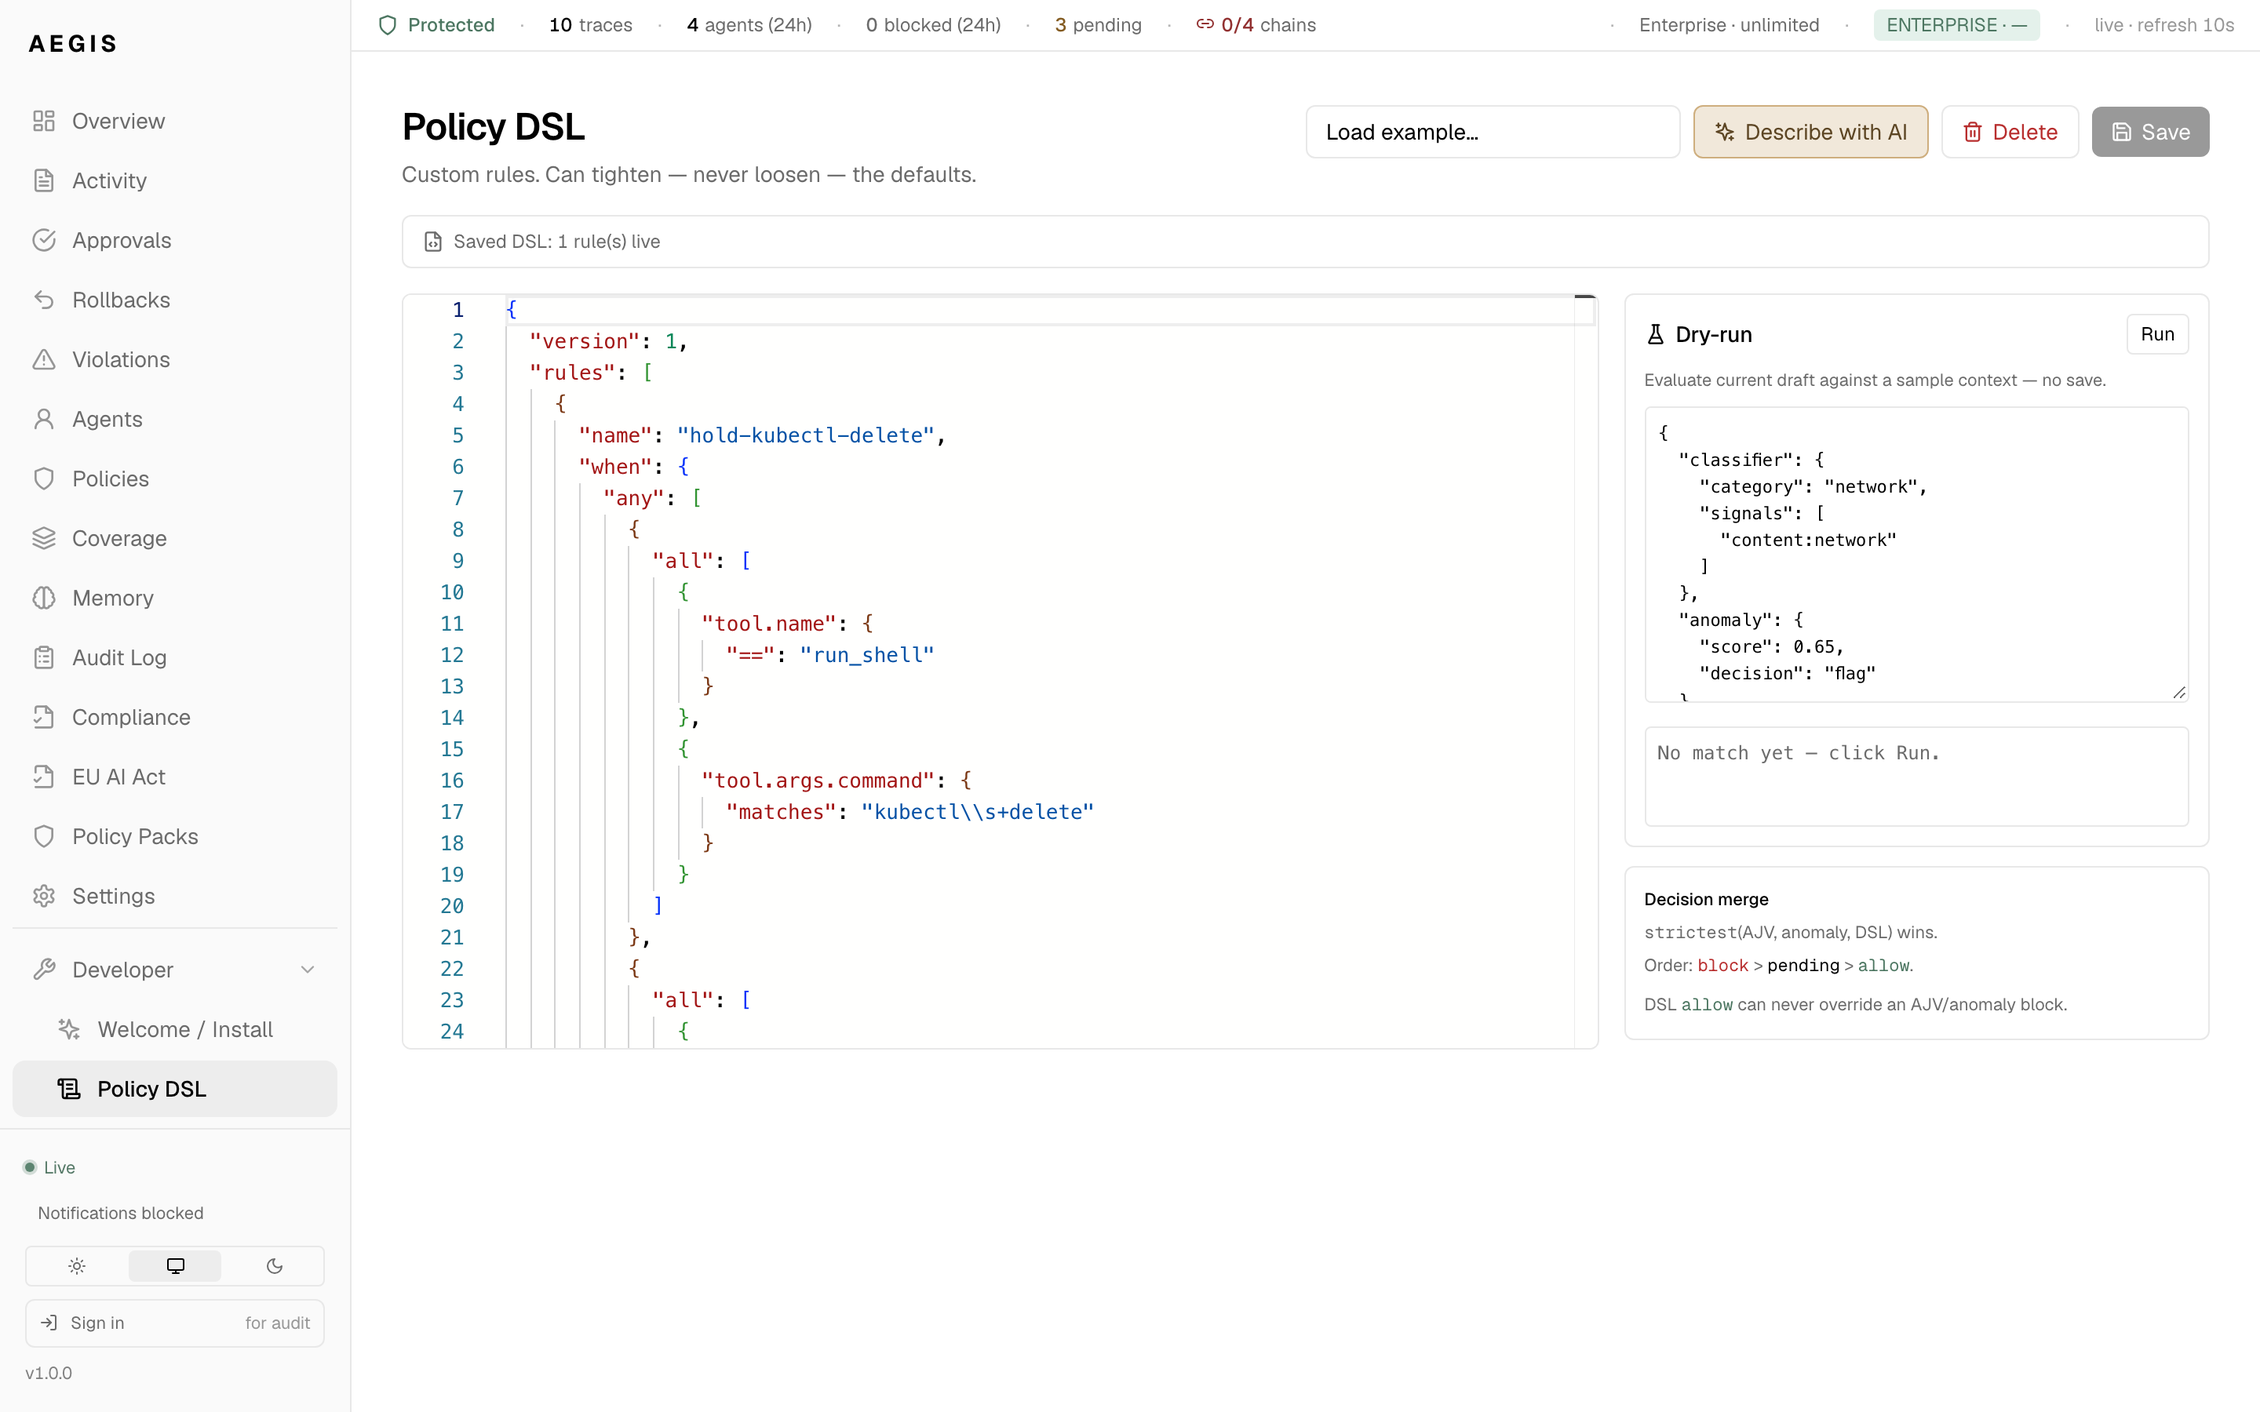
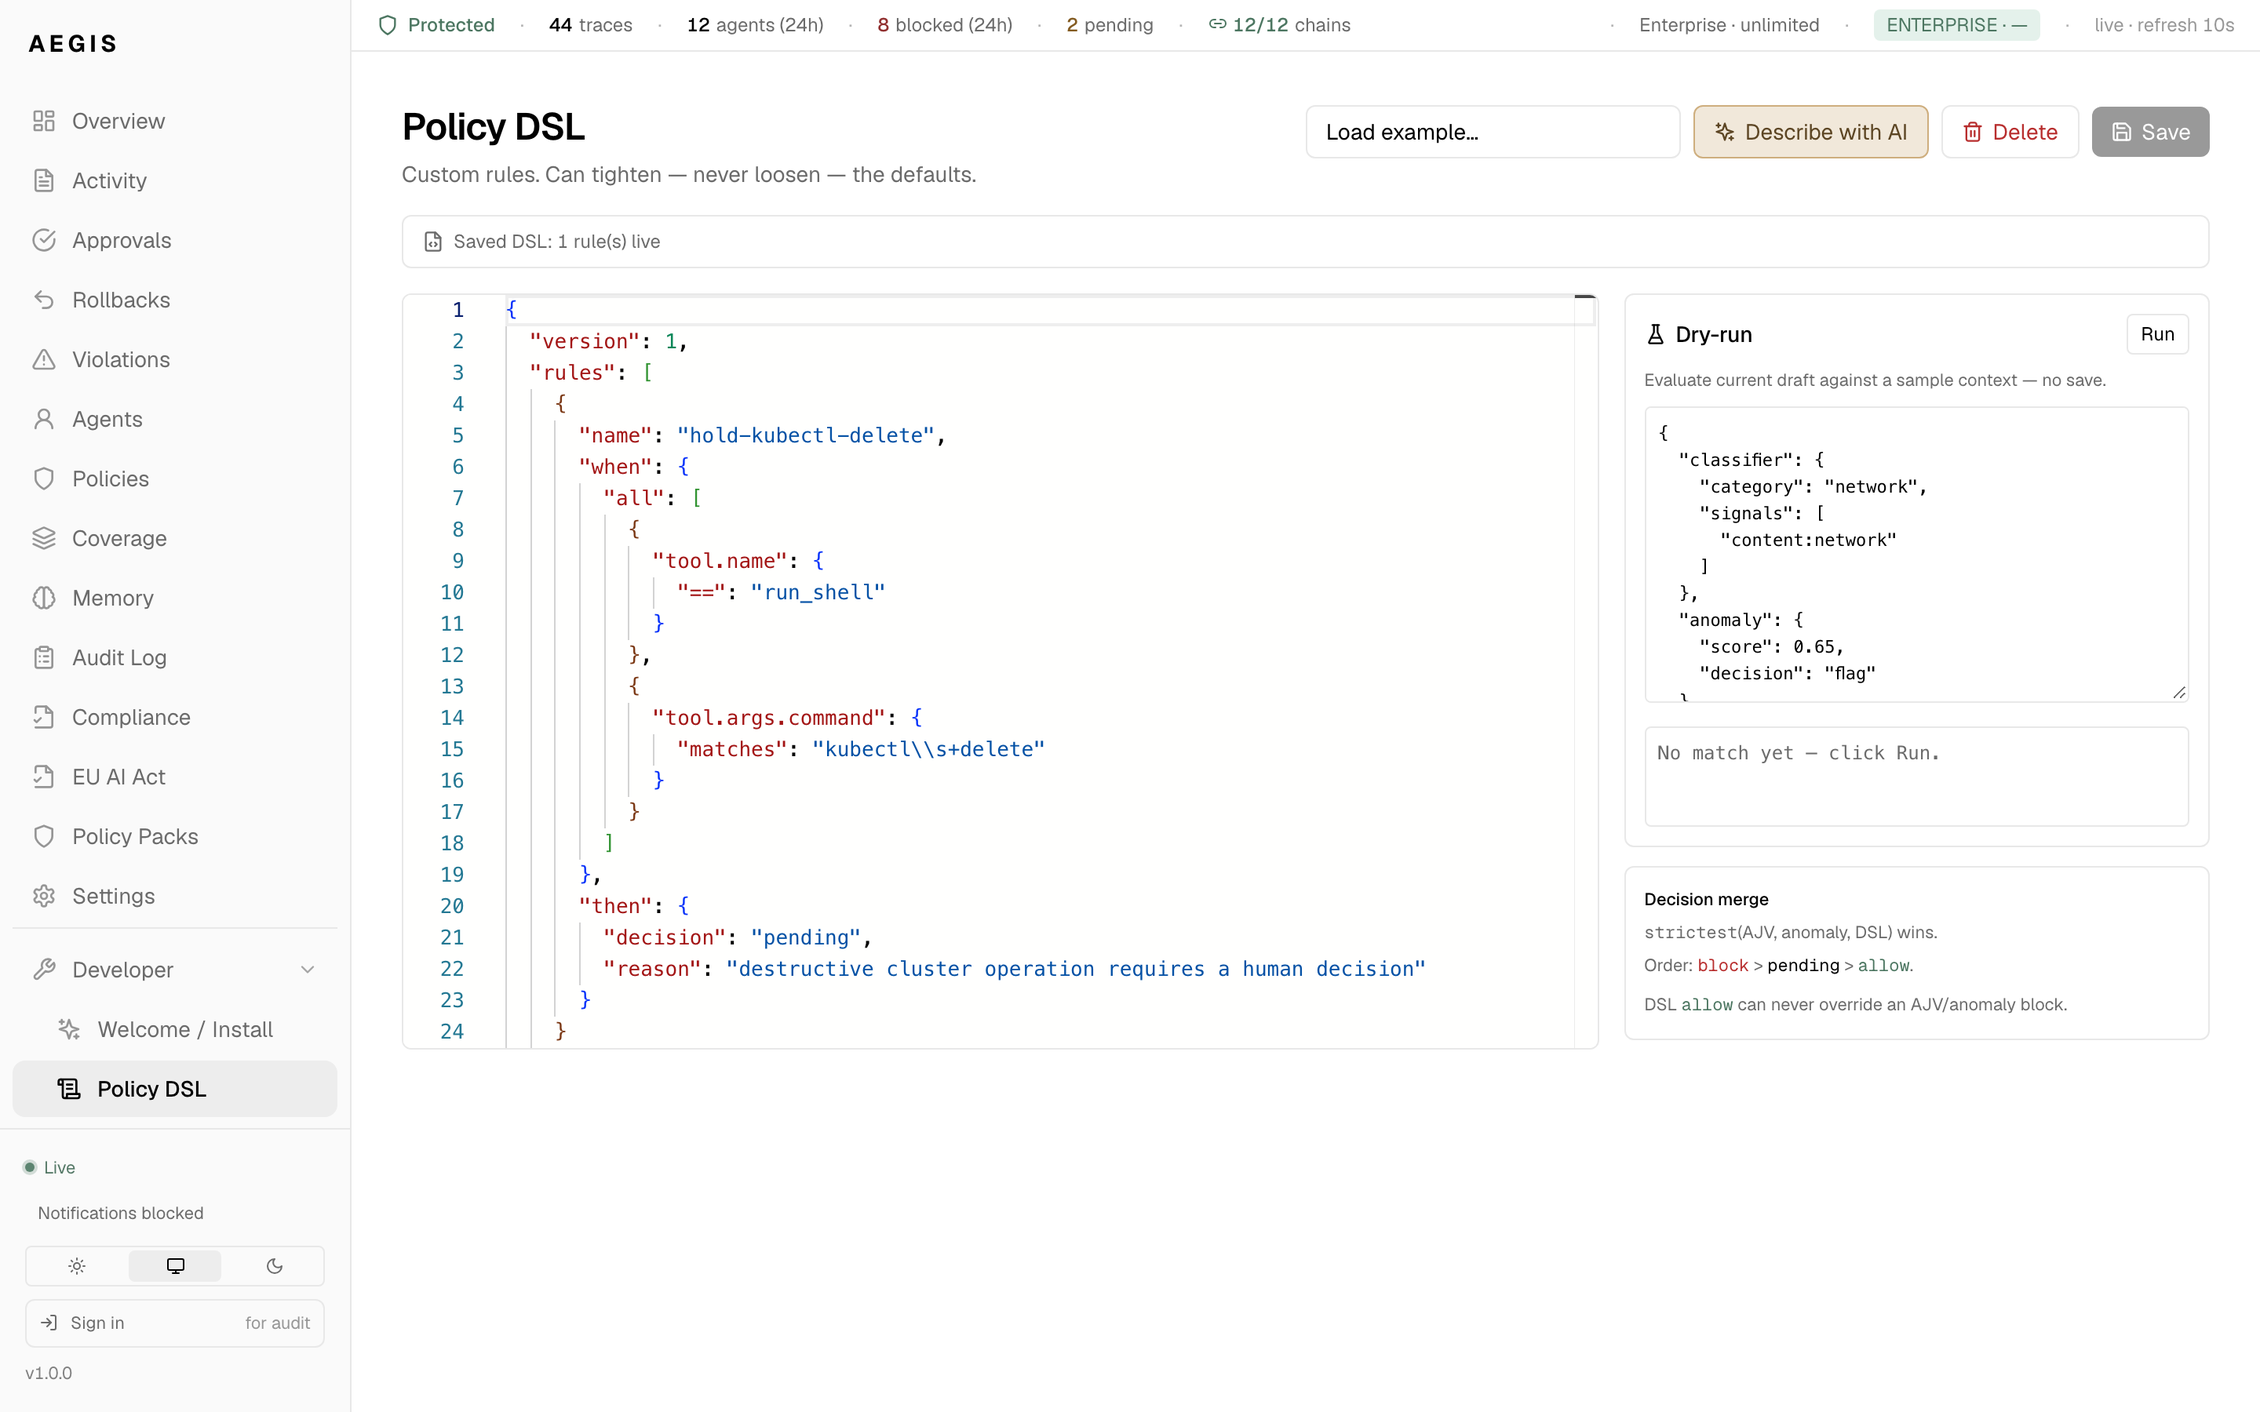
SDKs: write the gateway's decision into the trace; JS gets enforceAt and the guarded helper
The paper says every decision becomes a trace, but a call the Python SDK
blocked never carried the verdict: the trace (when one was written at all)
had no safety_validation or approval_status, so the Cockpit's activity
chart counted 1 blocked while the violations table counted 8. The SDK now
keeps the gateway's decision per (tool, arguments) and attaches it when
the trace leaves — REJECTED with the reason for a block, PENDING_APPROVAL
resolved to APPROVED/REJECTED for a hold, AUTO_APPROVED for an allow.

The JS SDK gains enforceAt: 'tool' and check/guarded/refusal, mirroring
Python, so a plain JS loop returns the refusal in-band with one line; the
matrix's JS row now reads in-band (helper). Cockpit screenshots retaken
against the gateway that ran the matrix: 12/12 chains, blocked and
pending counts real.

diff --git a/packages/sdk-js/src/interceptors/auto.ts b/packages/sdk-js/src/interceptors/auto.ts
@@ -76,7 +76,7 @@ export class AutoInstrument {
             const toolName = block.name as string;
             const args = (block.input ?? {}) as Record<string, unknown>;
 
-            if (instrument.guard.config.blockingMode) {
+            if (instrument.guard.config.blockingMode && instrument.guard.config.enforceAt !== 'tool') {
               await instrument.guard.enforceBlock(toolName, args);
             }
 
@@ -136,7 +136,7 @@ export class AutoInstrument {
             let args: Record<string, unknown> = {};
             try { args = JSON.parse((fn.arguments as string) || '{}'); } catch { /* */ }
 
-            if (instrument.guard.config.blockingMode) {
+            if (instrument.guard.config.blockingMode && instrument.guard.config.enforceAt !== 'tool') {
               await instrument.guard.enforceBlock(toolName, args);
             }
 
@@ -182,7 +182,7 @@ export class AutoInstrument {
         const prompt = typeof input === 'string' ? input : JSON.stringify(input);
         const startTime = Date.now();
 
-        if (instrument.guard.config.blockingMode) {
+        if (instrument.guard.config.blockingMode && instrument.guard.config.enforceAt !== 'tool') {
           await instrument.guard.enforceBlock(toolName, args);
         }
 
@@ -225,7 +225,7 @@ export class AutoInstrument {
         wrapped.execute = async function (args: Record<string, unknown>, options?: unknown) {
           const startTime = Date.now();
 
-          if (instrument.guard.config.blockingMode) {
+          if (instrument.guard.config.blockingMode && instrument.guard.config.enforceAt !== 'tool') {
             await instrument.guard.enforceBlock(toolName, args);
           }
 
@@ -311,3 +311,40 @@ export function auto(
 }
 
 export { AgentGuardBlockedError };
+
+// ── Explicit check for stacks without a tool-execution hook ─────────────────
+// A hand-written loop executes tools in its own code, so there is no method
+// for auto() to patch at the tool. One line puts the decision there:
+//
+//     agentguard.auto(url, { agentId: 'ops', blockingMode: true, enforceAt: 'tool' });
+//     execute = agentguard.guarded(execute);   // (toolName, args) => result
+//
+// A blocked call then resolves to the refusal text as the tool's own result.
+const REFUSAL_PREFIX = '[AEGIS] Tool call blocked before execution: ';
+
+/** Decide one tool call before it runs; resolves on allow (after any human hold), throws AgentGuardBlockedError otherwise. */
+export async function check(toolName: string, args: Record<string, unknown>): Promise<void> {
+  if (!_defaultGuard) throw new Error('agentguard.check() needs agentguard.auto(...) to have run first');
+  if (!_defaultGuard.config.blockingMode) return;
+  await _defaultGuard.enforceBlock(toolName, args ?? {});
+}
+
+/** The in-band refusal text for a blocked call. */
+export function refusal(err: AgentGuardBlockedError): string {
+  return `${REFUSAL_PREFIX}${err.reason}`;
+}
+
+/** Wrap an agent's tool dispatcher `(toolName, args, ...rest) => result` so a blocked call returns the refusal instead of throwing. */
+export function guarded<TArgs extends unknown[], TReturn>(
+  dispatch: (toolName: string, args: Record<string, unknown>, ...rest: TArgs) => TReturn | Promise<TReturn>,
+): (toolName: string, args: Record<string, unknown>, ...rest: TArgs) => Promise<TReturn | string> {
+  return async (toolName, args, ...rest) => {
+    try {
+      await check(toolName, args);
+    } catch (err) {
+      if (err instanceof AgentGuardBlockedError) return refusal(err);
+      throw err;
+    }
+    return dispatch(toolName, args, ...rest);
+  };
+}

diff --git a/packages/sdk-js/src/core/types.ts b/packages/sdk-js/src/core/types.ts
@@ -19,6 +19,14 @@ export interface AgentGuardConfig {
    * Default: false
    */
   blockingMode?: boolean;
+  /**
+   * Where a blocking decision is enforced. 'response' (default): the
+   * auto-instrumentation throws AgentGuardBlockedError out of the model
+   * call before any tool is dispatched. 'tool': the model-level patch only
+   * observes, and the agent's own dispatcher — wrapped with guarded() —
+   * decides, returning the refusal as the tool's result (in-band).
+   */
+  enforceAt?: 'response' | 'tool';
   /** Timeout for blocking checks in ms (default: 3000) */
   blockingTimeoutMs?: number;
   /** How long a `pending` call waits for a human decision before it is treated as blocked (default: 300000). */

diff --git a/packages/sdk-js/src/index.ts b/packages/sdk-js/src/index.ts
@@ -24,7 +24,7 @@ export type {
   Environment,
   ApprovalStatus,
 } from './core/types.js';
-export { auto, AutoInstrument } from './interceptors/auto.js';
+export { auto, AutoInstrument, check, guarded, refusal } from './interceptors/auto.js';
 
 /**
  * CodeShield helper — scan agent-generated code before dispatch, get

diff --git a/packages/sdk-js/src/core/tracer.ts b/packages/sdk-js/src/core/tracer.ts
@@ -44,6 +44,7 @@ export class AgentGuard {
       humanApprovalTimeoutMs: 300_000,
       pollIntervalMs: 1_000,
       failOpen: true,
+      enforceAt: 'response',
       debug: false,
       // Identity headers default to empty strings; HttpTransport's
       // env-fallback logic in buildHeaders() picks them up from

diff --git a/packages/sdk-python/agentguard/interceptors/auto.py b/packages/sdk-python/agentguard/interceptors/auto.py
@@ -178,6 +178,11 @@ class AutoInstrument:
     def __init__(self, guard: "AgentGuard"):
         self._guard = guard
         self._pending: Dict[str, Dict[str, Any]] = {}  # tool_use_id → partial data
+        # Gateway decisions keyed by (tool, args), consumed by _send_trace so
+        # every decision — allow, block, hold and its resolution — is written
+        # into the trace's safety_validation / approval_status, not only into
+        # the gateway's violations table. "Every decision becomes a trace."
+        self._decisions: Dict[str, Dict[str, Any]] = {}
 
     # ── Shared payload builder ──────────────────────────────────────────────
 
@@ -242,6 +247,40 @@ class AutoInstrument:
             return check_id, risk_level, category
         return None
 
+    @staticmethod
+    def _decision_key(tool_name: str, arguments: Any) -> str:
+        try:
+            return f"{tool_name}|{_json_mod.dumps(arguments, sort_keys=True, default=str)}"
+        except Exception:
+            return f"{tool_name}|{arguments!r}"
+
+    def _note_decision(self, tool_name: str, arguments: Any, result: dict) -> None:
+        decision = result.get("decision", "allow")
+        self._decisions[self._decision_key(tool_name, arguments)] = {
+            "passed":     decision != "block",
+            "risk_level": result.get("risk_level", "LOW"),
+            "approval":   {"allow": "AUTO_APPROVED", "pending": "PENDING_APPROVAL"}.get(decision, "REJECTED"),
+            "reason":     result.get("reason") if decision == "block" else None,
+            "check_id":   result.get("check_id"),
+        }
+
+    def _resolve_hold(self, tool_name: str, approved: bool, reason: Optional[str]) -> None:
+        for key, d in self._decisions.items():
+            if key.startswith(tool_name + "|") and d.get("approval") == "PENDING_APPROVAL":
+                d["approval"] = "APPROVED" if approved else "REJECTED"
+                d["passed"] = approved
+                d["reason"] = None if approved else reason
+
+    def _pop_decision(self, tool_name: str, arguments: Any):
+        d = self._decisions.pop(self._decision_key(tool_name, arguments), None)
+        if not d:
+            return None, None
+        from agentguard_core_schema import SafetyValidation
+        sv = SafetyValidation(policy_name="gateway", passed=bool(d["passed"]),
+                              violations=[d["reason"]] if d.get("reason") else None,
+                              risk_level=d.get("risk_level") if d.get("risk_level") in ("LOW", "MEDIUM", "HIGH", "CRITICAL") else "LOW")
+        return sv, d.get("approval")
+
     # ── Shared pre-check helpers ────────────────────────────────────────────
 
     _SEV = {"LOW": 0, "MEDIUM": 1, "HIGH": 2, "CRITICAL": 3}
@@ -295,6 +334,7 @@ class AutoInstrument:
             )
             with urllib.request.urlopen(req, timeout=timeout_s) as resp:
                 result = _json_mod.loads(resp.read())
+            self._note_decision(tool_name, arguments, result)
 
             risk_level = result.get("risk_level", "LOW")
             category   = result.get("category", "unknown")
@@ -356,8 +396,10 @@ class AutoInstrument:
 
                 if decision == "allow":
                     print(f"[AEGIS] ✅ '{tool_name}' approved by {result.get('decided_by', 'human')}")
+                    self._resolve_hold(tool_name, True, None)
                     return
                 if decision == "block":
+                    self._resolve_hold(tool_name, False, "Rejected by human reviewer")
                     raise AgentGuardBlockedError(
                         tool_name=tool_name,
                         reason="Rejected by human reviewer",
@@ -369,6 +411,7 @@ class AutoInstrument:
             except Exception:
                 pass  # network blip — keep polling
 
+        self._resolve_hold(tool_name, False, f"Human approval timed out after {timeout_s}s")
         raise AgentGuardBlockedError(
             tool_name=tool_name,
             reason=f"Human approval timed out after {timeout_s}s",
@@ -408,6 +451,7 @@ class AutoInstrument:
                     return _json_mod.loads(resp.read())
 
             result = await loop.run_in_executor(None, _do_check)
+            self._note_decision(tool_name, arguments, result)
 
             risk_level = result.get("risk_level", "LOW")
             category   = result.get("category", "unknown")
@@ -469,8 +513,10 @@ class AutoInstrument:
 
                 if decision == "allow":
                     print(f"[AEGIS] ✅ '{tool_name}' approved by {result.get('decided_by', 'human')}")
+                    self._resolve_hold(tool_name, True, None)
                     return
                 if decision == "block":
+                    self._resolve_hold(tool_name, False, "Rejected by human reviewer")
                     raise AgentGuardBlockedError(
                         tool_name=tool_name,
                         reason="Rejected by human reviewer",
@@ -482,6 +528,7 @@ class AutoInstrument:
             except Exception:
                 pass
 
+        self._resolve_hold(tool_name, False, f"Human approval timed out after {timeout_s}s")
         raise AgentGuardBlockedError(
             tool_name=tool_name,
             reason=f"Human approval timed out after {timeout_s}s",
@@ -1988,9 +2035,12 @@ class AutoInstrument:
             if token_usage:
                 obs_metadata["token_usage"] = token_usage
 
+            safety_validation, approval_status = self._pop_decision(tool_name, arguments)
             trace_request = CreateTraceRequest(
                 agent_id=agent_id,
                 sequence_number=self._guard._sequence_counter,
+                safety_validation=safety_validation,
+                approval_status=approval_status,
                 input_context=InputContext(prompt=input_prompt),
                 thought_chain=ThoughtChain(
                     raw_tokens="Auto-captured via SDK interceptor",

diff --git a/research/paper-arxiv/aegis.tex b/research/paper-arxiv/aegis.tex
@@ -235,9 +235,10 @@ OpenAI Agents SDK) returns the refusal as the tool's result, so the model
 sees it in the slot a result would occupy. A stack with no such method
 to patch---a hand-written loop, LiteLLM, the Google GenAI client---gets
 the same behaviour from one line that wraps its dispatcher,
-\texttt{agentguard.guarded(execute\_tool)}. JavaScript and Go SDKs
-provide the same response-side hook; the JavaScript SDK patches
-Anthropic, OpenAI and LangChain.
+\texttt{agentguard.guarded(execute\_tool)}. The JavaScript SDK patches
+Anthropic, OpenAI and LangChain and ships the same \texttt{enforceAt}
+switch and \texttt{guarded} helper; the Go SDK is an explicit
+\texttt{Wrap(tool, args, fn)} that checks, holds, runs and traces.
 
 \paragraph{MCP proxy.}
 For agents that reach tools over the Model Context Protocol, a stdio or
@@ -481,7 +482,12 @@ Supply chain        & 8 & \makecell[tl]{Source-map leak (3), unsafe\\publish (3)
 
 Agents carry an identity card---an EdDSA-signed JWT minted by the gateway
 and bound to the agent's registry status---which the proxy path verifies.
-Every decision, with the facts that produced it, becomes a trace. Traces
+Every decision, with the facts that produced it, becomes a trace: the
+SDK carries the gateway's verdict into the trace record it writes for
+the call (\texttt{safety\_validation}, \texttt{approval\_status}), so a
+blocked call, a held call and the person's answer to it are in the same
+chain as the calls that ran, and the gateway records the same decision
+in its violations table. Traces
 are signed with a per-agent Ed25519 key~\cite{bernstein2012eddsa} and
 linked into a SHA-256 hash chain in which each record commits to its
 predecessor; modifying or deleting any entry breaks the chain for every
@@ -537,10 +543,11 @@ calls.
 
 \begin{figure}[t]
     \centering
-    \includegraphics[width=\columnwidth]{images/dashboard-overview.png}
+    \includegraphics[width=\columnwidth]{images/ui/overview.png}
     \vspace{-0.2in}
-    \caption{Compliance Cockpit: active agents, trace volume, pending
-    approvals and the real-time decision feed.}
+    \caption{Compliance Cockpit overview, taken against the gateway that
+    ran the compatibility matrix: agents, trace volume, blocked and held
+    calls, chain integrity, and the activity feed.}
     \vspace{-0.15in}
     \label{fig:dashboard}
 \end{figure}

diff --git a/research/compat/harnesses.py b/research/compat/harnesses.py
@@ -26,7 +26,7 @@ from common import (GATEWAY, SCENARIOS, SCENARIOS_BASH, TOOL_SPECS, CheckRecorde
 
 ANTHROPIC_MODEL = "claude-haiku-4-5"
 OPENAI_MODEL = "gpt-4o-mini"
-GEMINI_MODEL = "gemini-3-flash-preview"
+GEMINI_MODEL = os.environ.get("COMPAT_GEMINI_MODEL", "gemini-3-flash-preview")
 REC = CheckRecorder().install()
 OUT: dict[str, Any] = {"transcript": [], "inband": "n/a", "escaped": False}
 
